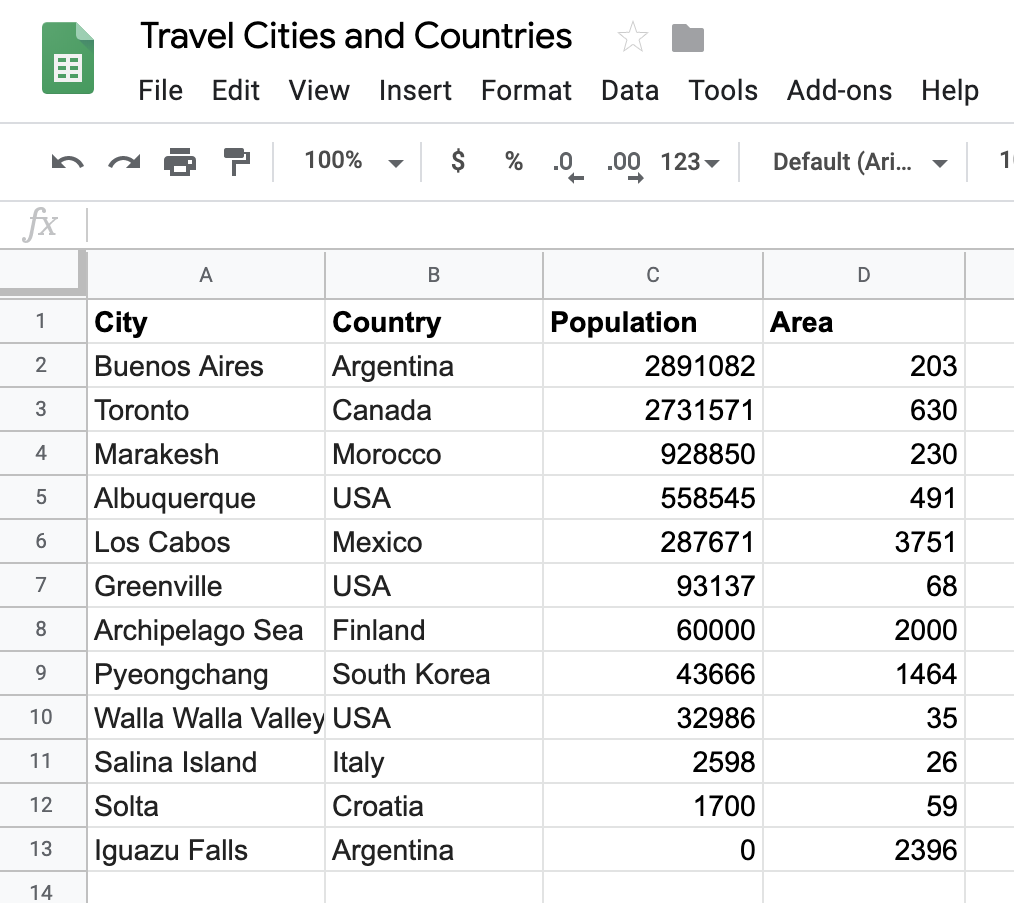
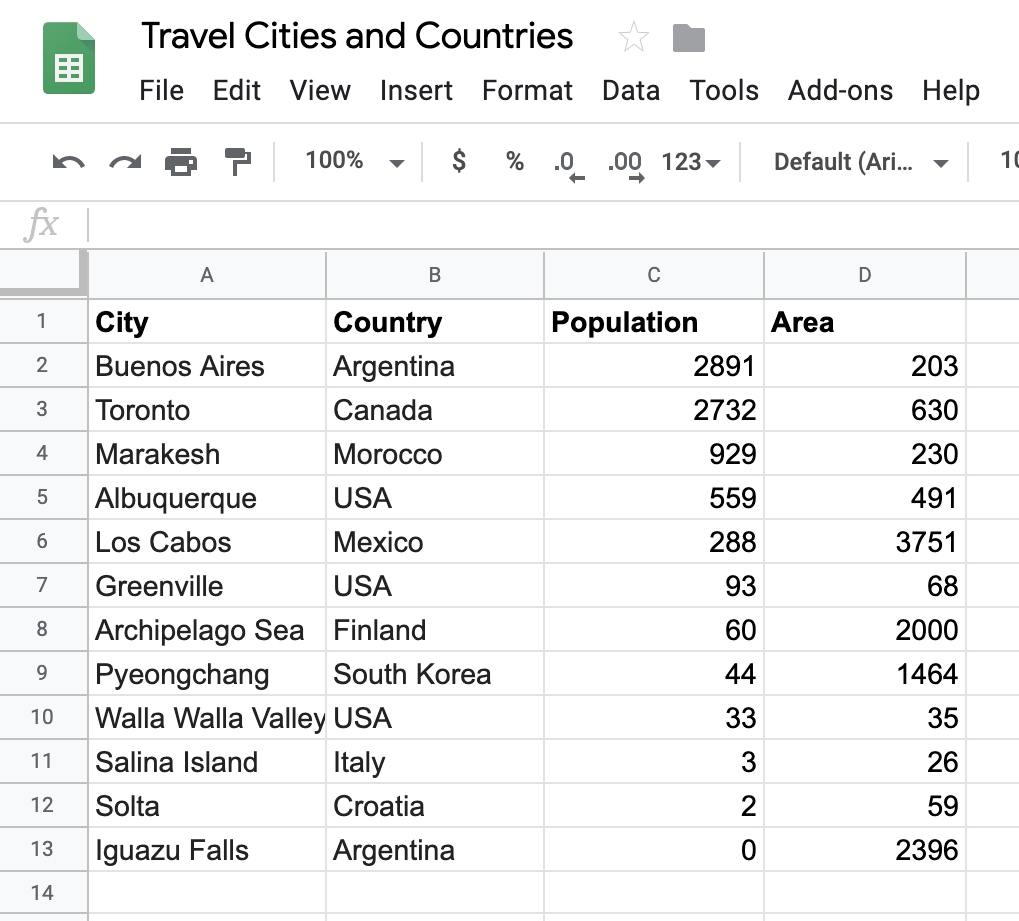
change population units

Changed region(s): [[0.0, 0.031, 1.0, 1.0], [0.0306, 0.062, 0.0917, 0.093], [0.6114, 0.031, 0.642, 0.062]]

diff --git a/README.md b/README.md
@@ -17,7 +17,7 @@ For example, here is [our list of travel cities and countries](https://docs.goog
 
 <img src="./countries-cities.png" width="500">
 
-Now if we download this spreadsheet in the form of an .xlsx file we can start to work with it.
+You'll notice two additional columns: Population and Area. The Population column contains the population of the city in units of 1000 people. The Area column contains the area of the city in units of $km^2$. Now if we download this spreadsheet in the form of an .xlsx file we can start to work with it.
 
 <img src="./download-xls.png" width="600">
 
@@ -42,7 +42,7 @@ cities[0]
 
     {'City': 'Buenos Aires',
      'Country': 'Argentina',
-     'Population': 2891082,
+     'Population': 2891,
      'Area': 203}
 
 
@@ -76,30 +76,27 @@ cities
 
     [{'City': 'Buenos Aires',
       'Country': 'Argentina',
-      'Population': 2891082,
+      'Population': 2891,
       'Area': 203},
-     {'City': 'Toronto', 'Country': 'Canada', 'Population': 2731571, 'Area': 630},
-     {'City': 'Marakesh', 'Country': 'Morocco', 'Population': 928850, 'Area': 230},
-     {'City': 'Albuquerque', 'Country': 'USA', 'Population': 558545, 'Area': 491},
-     {'City': 'Los Cabos',
-      'Country': 'Mexico',
-      'Population': 287671,
-      'Area': 3751},
-     {'City': 'Greenville', 'Country': 'USA', 'Population': 93137, 'Area': 68},
+     {'City': 'Toronto', 'Country': 'Canada', 'Population': 2732, 'Area': 630},
+     {'City': 'Marakesh', 'Country': 'Morocco', 'Population': 929, 'Area': 230},
+     {'City': 'Albuquerque', 'Country': 'USA', 'Population': 559, 'Area': 491},
+     {'City': 'Los Cabos', 'Country': 'Mexico', 'Population': 288, 'Area': 3751},
+     {'City': 'Greenville', 'Country': 'USA', 'Population': 93, 'Area': 68},
      {'City': 'Archipelago Sea',
       'Country': 'Finland',
-      'Population': 60000,
+      'Population': 60,
       'Area': 2000},
      {'City': 'Pyeongchang',
       'Country': 'South Korea',
-      'Population': 43666,
+      'Population': 44,
       'Area': 1464},
      {'City': 'Walla Walla Valley',
       'Country': 'USA',
-      'Population': 32986,
+      'Population': 33,
       'Area': 35},
-     {'City': 'Salina Island', 'Country': 'Italy', 'Population': 2598, 'Area': 26},
-     {'City': 'Solta', 'Country': 'Croatia', 'Population': 1700, 'Area': 59},
+     {'City': 'Salina Island', 'Country': 'Italy', 'Population': 3, 'Area': 26},
+     {'City': 'Solta', 'Country': 'Croatia', 'Population': 2, 'Area': 59},
      {'City': 'Iguazu Falls',
       'Country': 'Argentina',
       'Population': 0,
@@ -137,7 +134,7 @@ cities[0]
 
     {'City': 'Buenos Aires',
      'Country': 'Argentina',
-     'Population': 2891082,
+     'Population': 2891,
      'Area': 203}
 
 
@@ -182,7 +179,7 @@ cities[0].values()
 
 
 
-    dict_values(['Buenos Aires', 'Argentina', 2891082, 203])
+    dict_values(['Buenos Aires', 'Argentina', 2891, 203])
 
 
 
@@ -194,7 +191,7 @@ list(cities[0].values())
 
 
 
-    ['Buenos Aires', 'Argentina', 2891082, 203]
+    ['Buenos Aires', 'Argentina', 2891, 203]
 
 
 
